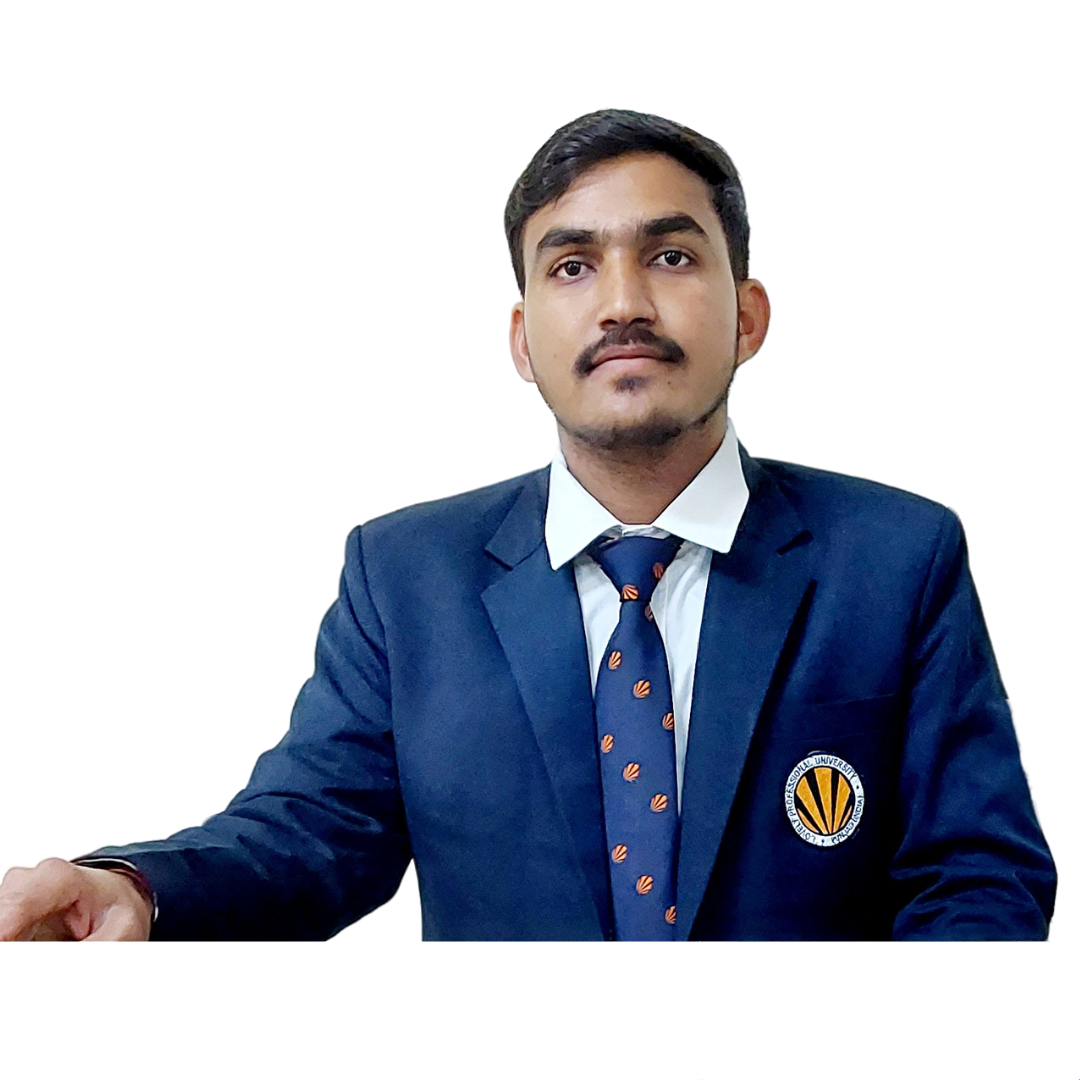
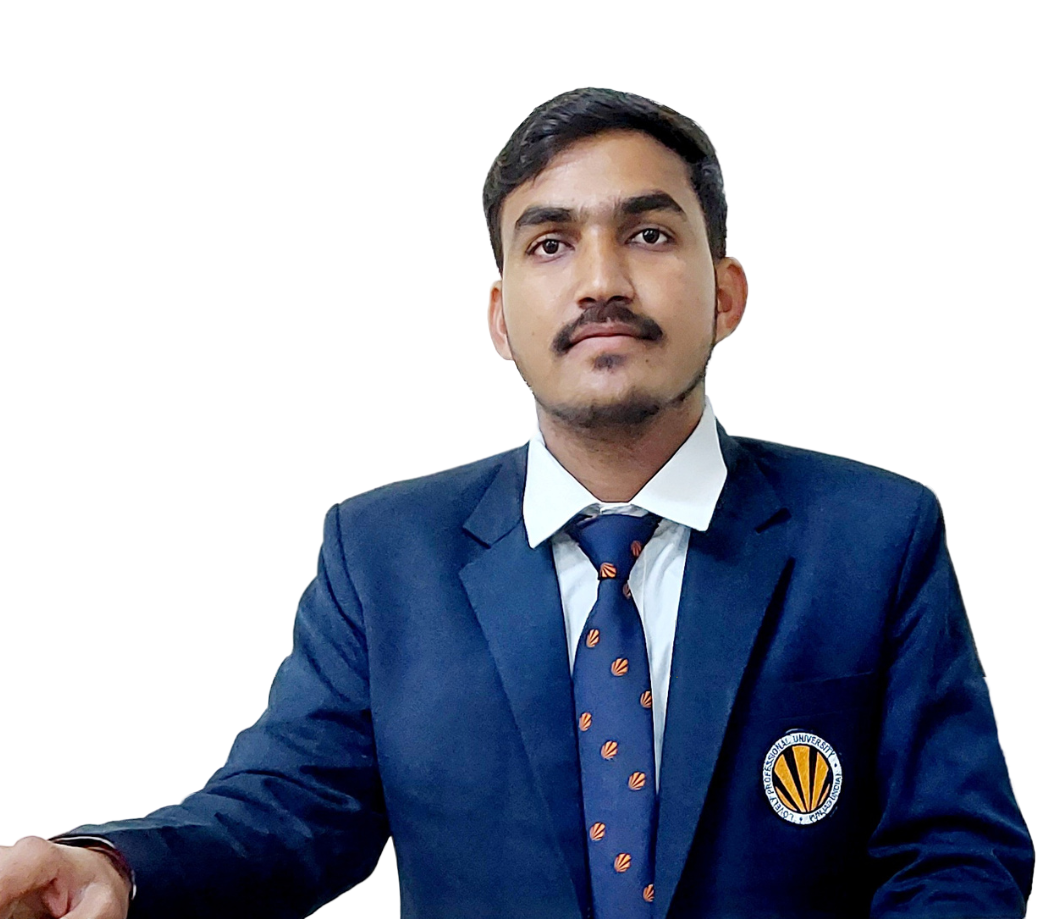
Changes is done

diff --git a/index.html b/index.html
@@ -37,7 +37,7 @@
             <h3>And I'm a 
                 <span class="multiple-text"></span>
             </h3>
-            <p>Lorem ipsum dolor sit amet consectetur adipisicing elit. Temporibus optio numquam dolorem unde? Minus quaerat aspernatur rerum, soluta blanditiis est adipisci similique molestias, nam veritatis, a unde numquam eveniet accusamus?</p>
+            <p>As a versatile developer, I specialize in crafting responsive websites and intuitive UI designs. With expertise in React and the MERN stack, I build dynamic, full-stack web applications, while also designing robust REST APIs for seamless integration. My broad skill set as a Full Stack Developer ensures comprehensive solutions from front-end to back-end.</p>
 
             <div class="social-media">
                 <a href="#">
@@ -47,14 +47,15 @@
                     <i class="fa-brands fa-twitter"></i>
                 </a>
                 <a href="#">
-                    <i class="fa-brands fa-instagram"></i>
+                    <i class="fa-brands fa-github"></i>
                 </a>
-                <a href="#">
+                <a href="https://www.linkedin.com/in/ashok-gehlot/" type="_blank">
                     <i class="fa-brands fa-linkedin-in"></i>
                 </a>
             </div>
             <br/>
-            <a href="#" class="btn">Download CV</a>
+            <a href="https://drive.google.com/file/d/175SYnLf72CBOCnDItLX2GyCR-8iXt-J9/view?usp=sharing" class="btn" target="_blank" rel="noopener noreferrer">Download CV</a>
+
         </div>
 
         <div class="home-image">
@@ -74,10 +75,10 @@
                 <span>Me</span>
             </h2>
 
-            <h3>Web Developer</h3>
-            <p>Lorem ipsum dolor sit amet consectetur adipisicing elit. Necessitatibus eligendi magni quaerat, deserunt, molestiae tempore consequatur incidunt culpa nostrum, natus totam distinctio esse soluta. Eius et ex doloremque praesentium ut illo, autem modi reprehenderit earum nostrum porro enim ratione sequi? Explicabo obcaecati quis maiores itaque non deleniti laboriosam odit aliquam!</p>
+            <h3>Full Stack Developer</h3>
+            <p>As a Full Stack Developer, I excel in creating comprehensive web applications by integrating both front-end and back-end technologies. My expertise spans HTML, CSS, and JavaScript for dynamic, responsive user interfaces, along with server-side technologies such as Node.js and Express.js for robust backend functionality. I leverage databases like MongoDB and SQL to manage data efficiently, and I am skilled in using modern frameworks and tools like React to build scalable and high-performance applications. My goal is to deliver seamless, end-to-end solutions that meet user needs and drive business success.</p>
 
-            <a href="#" class="btn">Read more</a>
+            <a href="https://www.linkedin.com/in/ashok-gehlot/" class="btn" type="_blank">Read more</a>
         </div>
       </section>
 
@@ -92,27 +93,27 @@
                 <i class="fa-solid fa-code"></i>
                 <h3>Web Development</h3>
                 
-                <p>Lorem, ipsum dolor sit amet consectetur adipisicing elit. Deserunt officia mollitia animi ad nemo unde fugit saepe provident praesentium! Eius ipsum inventore pariatur placeat voluptas!</p>
+                <p>Versatile Full Stack Developer with experience across both front-end and back-end technologies. Proficient in a range of programming languages and frameworks, I build complete web solutions, from user interfaces to server-side logic and databases.</p>
 
-                <a href="#" class="btn">Read More</a>
+                <a href="https://www.linkedin.com/in/ashok-gehlot/" type="_blank" class="btn">Read More</a>
             </div>
 
             <div class="services-box">
                 <i class="fa-solid fa-palette"></i>
                 <h3>UI Desigining</h3>
 
-                <p>Lorem, ipsum dolor sit amet consectetur adipisicing elit. Deserunt officia mollitia animi ad nemo unde fugit saepe provident praesentium! Eius ipsum inventore pariatur placeat voluptas!</p>
+                <p>Creative UI Designer focused on crafting intuitive and aesthetically pleasing user interfaces. Combining design principles with user-centered strategies, I create interfaces that enhance usability and deliver a seamless user experience.</p>
 
-                <a href="#" class="btn">Read More</a>
+                <a type="_blank" href="https://www.linkedin.com/in/ashok-gehlot/" class="btn">Read More</a>
             </div>
 
             <div class="services-box">
                 <i class="fa-brands fa-android"></i>
                 <h3>App Development</h3>
 
-                <p>Lorem, ipsum dolor sit amet consectetur adipisicing elit. Deserunt officia mollitia animi ad nemo unde fugit saepe provident praesentium! Eius ipsum inventore pariatur placeat voluptas!</p>
+                <p>As an Android app developer, I create user-friendly mobile applications using Kotlin and XML. I design intuitive UIs, manage local data with Room, and implement real-time features with Firebase, aiming to deliver high-performance apps with seamless user experiences.</p>
 
-                <a href="#" class="btn">Read More</a>
+                <a type="_blank" href="https://www.linkedin.com/in/ashok-gehlot/" class="btn">Read More</a>
             </div>
         </div>
        </section>
@@ -124,62 +125,77 @@
 
             <div class="portfolio-container">
                 <div class="portfolio-box">
-                    <img src="https://staging.herovired.com/wp-content/uploads/2023/04/What-Is-Data-Definition-01.webp" alt="project 1">
+                    <img src="./img/p1.png" alt="project 1">
                     <div class="portfolio-layer">
-                        <h4>Web design</h4>
-                        <p>Lorem ipsum, dolor sit amet consectetur adipisicing elit. Nemo, vero!</p>
+                        <h4>Full Stack Project</h4>
+                        <p>Urban Homes - Real Estate Project<br/>
+                        Tech: Reactjs, Tailwind CSS,Express, MongoDB</p>
     
-                        <i class="fa-solid fa-up-right-from-square"></i>
+                        <a href="https://github.com/Ashokgehlot318/urban_homes" type="_blank">
+                            <i class="fa-solid fa-up-right-from-square"></i>
+                        </a>
                     </div>
                 </div>
 
                 <div class="portfolio-box">
-                    <img src="https://staging.herovired.com/wp-content/uploads/2023/04/What-Is-Data-Definition-01.webp" alt="project 2">
+                    <img src="./img/p4.png" alt="project 2">
                     <div class="portfolio-layer">
-                        <h4>Web design</h4>
-                        <p>Lorem ipsum, dolor sit amet consectetur adipisicing elit. Nemo, vero!</p>
+                        <h4>UI Figma design</h4>
+                        <p>Car Selling Android App Figma Design</p>
     
-                        <i class="fa-solid fa-up-right-from-square"></i>
+                        <a href="https://www.figma.com/design/OgIFtQOzMRtJab2Vr1ZnWo/Car?node-id=0-1&t=7JtEURFOC6uXvVo8-1" type="_blank">
+                            <i class="fa-solid fa-up-right-from-square"></i>
+                        </a>
                     </div>
                 </div>
 
                 <div class="portfolio-box">
-                    <img src="https://staging.herovired.com/wp-content/uploads/2023/04/What-Is-Data-Definition-01.webp" alt="project 3">
-                    <div class="portfolio-layer">
+                    <img src="./img/p3.png" alt="project 3">
+                    <div class="portfolio-layer ">
                         <h4>Web design</h4>
-                        <p>Lorem ipsum, dolor sit amet consectetur adipisicing elit. Nemo, vero!</p>
-    
-                        <i class="fa-solid fa-up-right-from-square"></i>
+                        <p>Apna Theatre - Move Streaming Website <br/>
+                        Tech: HTML,CSS,JS</p>
+                        <a href="">
+                            <i class="fa-solid fa-up-right-from-square"></i>
+                        </a>
                     </div>
                 </div>
 
                 <div class="portfolio-box">
-                    <img src="https://staging.herovired.com/wp-content/uploads/2023/04/What-Is-Data-Definition-01.webp" alt="project 4">
+                    <img src="./img/p6.jpg" alt="project 4">
                     <div class="portfolio-layer">
-                        <h4>Web design</h4>
-                        <p>Lorem ipsum, dolor sit amet consectetur adipisicing elit. Nemo, vero!</p>
+                        <h4>REST API design</h4>
+                        <p>Using express, nodejs, tool: Postman</p>
     
-                        <i class="fa-solid fa-up-right-from-square"></i>
+                        <a href="https://documenter.getpostman.com/view/31848076/2sA2r55RW1">
+                            <i class="fa-solid fa-up-right-from-square"></i>
+                        </a>
                     </div>
                 </div>
 
                 <div class="portfolio-box">
-                    <img src="https://staging.herovired.com/wp-content/uploads/2023/04/What-Is-Data-Definition-01.webp" alt="project 5">
+                    <img src="./img/p7.webp">
                     <div class="portfolio-layer">
-                        <h4>Web design</h4>
-                        <p>Lorem ipsum, dolor sit amet consectetur adipisicing elit. Nemo, vero!</p>
+                        <h4>JAVA Project</h4>
+                        <p>Bank Management System <br/>
+                        Tech: Java, JDBC API </p>
     
-                        <i class="fa-solid fa-up-right-from-square"></i>
+                        <a href="">
+                            <i class="fa-solid fa-up-right-from-square"></i>
+                        </a>
                     </div>
                 </div>
 
                 <div class="portfolio-box">
-                    <img src="https://staging.herovired.com/wp-content/uploads/2023/04/What-Is-Data-Definition-01.webp" alt="project 6">
+                    <img src="./img/p8.png" alt="project 6">
                     <div class="portfolio-layer">
-                        <h4>Web design</h4>
-                        <p>Lorem ipsum, dolor sit amet consectetur adipisicing elit. Nemo, vero!</p>
+                        <h4>MERN Stack</h4>
+                        <p>Blogging Website <br/>
+                        Tech: React,Tailwind CSS, Nodejs, MongoDB, Express</p>   
     
-                        <i class="fa-solid fa-up-right-from-square"></i>
+                        <a href="https://github.com/Ashokgehlot318/Blog-Buzz" type="_blank">
+                            <i class="fa-solid fa-up-right-from-square"></i>
+                        </a>
                     </div>
                 </div>
             </div>
@@ -233,14 +249,6 @@
 
 
       <script type="text/javascript" src="https://cdn.jsdelivr.net/npm/@emailjs/browser@4/dist/email.min.js"></script>
-    <script type="text/javascript">
-        (function() {
-            // https://dashboard.emailjs.com/admin/account
-            emailjs.init({
-              publicKey: "rvOEnxwZdJjLfJRMW",
-            });
-        })();
-    </script>
       <!-- main js  -->
       <script src="./script.js"></script>
 </body>

diff --git a/style.css b/style.css
@@ -102,23 +102,24 @@ span{
 }
 
 .home-image img{
-    width: 28vw; /* Width of the image */
-    height: 25vw; /* Ensure height is equal to width for a perfect circle */
-    border-radius: 50%; /* Makes the image circular */
-    object-fit: cover; /* Ensures the image covers the circle without distortion */
+    width: 30vw; /* Width of the image */
+    height: 30vw; /* Ensure height is equal to width for a perfect circle */
+    border-radius: 50%; /* Makes the image circular
+    /* object-fit: cover; */
+    /* background: var(--snd-bg-color); Ensures the image covers the circle without distortion */
     
     /* Border styling */
-    border: 5px solid #3498db; /* Border color and thickness */
-    border-style: solid; /* Type of border */
-    border-width: 5px; /* Border thickness */
-    
+    /* border: 5px solid #3498db; /* Border color and thickness */
+    /* border-style: solid; /* Type of border */
+    /* border-width: 5px; Border thickness */ */
+     */
     /* Optional: add a gradient border */
-    background: linear-gradient(white, white) padding-box, 
-                linear-gradient(to right, #3498db, #e74c3c) border-box;
+    /* background: linear-gradient(white, white) padding-box,  */
+                /* linear-gradient(to right, #3498db, #e74c3c) border-box; */
     
     /* Optional: add a shadow for more depth */
-    box-shadow: 0 4px 8px rgba(0, 0, 0, 0.2);
-    animation: floatImage 4s ease-in-out infinite;
+    /* box-shadow: 0 4px 8px rgba(0, 0, 0, 0.2); */
+    /* animation: floatImage 4s ease-in-out infinite; */
 }
 
 @keyframes floatImage{
@@ -186,8 +187,8 @@ span{
 } */
 
 .about-img img {
-    width: 30vw; /* Width of the image */
-    height: 30vw; /* Ensure height is equal to width for a perfect circle */
+    width: 20vw; /* Width of the image */
+    height: 20vw; /* Ensure height is equal to width for a perfect circle */
     border-radius: 50%; /* Makes the image circular */
     object-fit: cover; /* Ensures the image covers the circle without distortion */
     
@@ -290,6 +291,7 @@ span{
 
 .portfolio-box img{
     width: 100%;
+    height: 250px;
     transition: .5s ease;
     opacity: 0.7;
 }
@@ -322,10 +324,12 @@ span{
 
 .portfolio-layer h4{
     font-size: 3rem;
+    color: var(--text-color);
 }
 
 .portfolio-layer p{
     font-size: 1.6rem;
+    color: var(--text-color);
     margin: .3rem 0 1rem;
 }
 

diff --git a/script.js b/script.js
@@ -68,13 +68,18 @@ const typed = new Typed('.multiple-text',{
 // Initialize EmailJS with your User ID
 // emailjs.init("rvOEnxwZdJjLfJRMW");
 
+(function() {
+    emailjs.init({
+      publicKey: "rvOEnxwZdJjLfJRMW",
+    });
+})();
+
 var serviceId ="service_22ohywb";
 var templateId = "template_33z2jls";
 
 // Function to handle form submission
 document.addEventListener("DOMContentLoaded", function () {
     const form = document.querySelector('form');
-    
     form.addEventListener('submit', function (event) {
         event.preventDefault(); // Prevent default form submission
         
@@ -90,7 +95,7 @@ document.addEventListener("DOMContentLoaded", function () {
         };
 
         // Send email using EmailJS
-        emailjs.send('serviceId', 'templateId', emailData)
+        emailjs.send(serviceId, templateId, emailData)
             .then(response => {
                 console.log('Email sent successfully:', response);
                 alert('Thank you, '+ emailData['from_name']+'! Your message has been sent successfully!')
